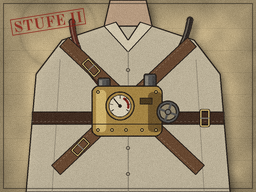
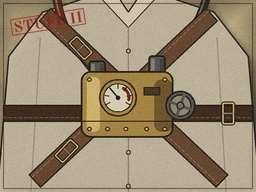
Aktenbilder: Arme in drei Stufen, Schrotflinte größer, Herz näher herangeholt

diff --git a/tools/art/akte_bilder.py b/tools/art/akte_bilder.py
@@ -1,6 +1,6 @@
 """Bilder für Waffenkammer und Ausbauten: lavierte Werkstattzeichnungen auf Karteikarten, wie aus einer Akte von 1927.
 
-Je Gegenstand aus data/waffen.json ein Bild, je Ausbau (Beine, Herz) und Stufe eines. Eigene Entwürfe, gezeichnet aus Flächen und Linien.
+Je Gegenstand aus data/waffen.json ein Bild, je Ausbau (Beine, Arme, Herz) und Stufe eines. Eigene Entwürfe, gezeichnet aus Flächen und Linien.
 Aufruf: python tools/art/akte_bilder.py [--sheet=<Datei.png>]   (wenige Sekunden)
 Ergebnis: game/assets/akte/*.png, 256 × 192 Bildpunkte, gedacht für die Anzeige in halber (128 × 96) und viertel Größe (64 × 48),
 dazu game/assets/akte/zuordnung.json: Kennung -> Datei. Mit --sheet entsteht ein Übersichtsblatt aller Bilder.
@@ -19,7 +19,7 @@ FONTS = ROOT / "game" / "assets" / "fonts"
 W, H = 256, 192
 SUPER = 4
 UPGRADE_LEVELS = 3  # Campaign.MaxLevel
-UPGRADES = {"legs": "beine", "heart": "herz"}  # Kennung im Spiel (AgentRecord.Legs, .Heart) -> Name in der Datei
+UPGRADES = {"legs": "beine", "arms": "arme", "heart": "herz"}  # Kennung im Spiel -> Name in der Datei
 
 PAPER = (200, 184, 148)
 INK = (36, 30, 26)
@@ -231,7 +231,7 @@ def draw_pistole(p, img):
 
 
 def draw_schrotflinte(p, img):
-    p = p.at(-6, 4)
+    p = p.at(-6, 4).at(-13, -9, 0, 1.1)
     p.poly([(176, 66), (200, 70), (228, 94), (242, 128), (233, 139), (213, 134), (196, 108), (176, 99)], WOOD)  # abgesägter Schaft
     p.poly([(186, 74), (200, 76), (222, 96), (214, 100), (198, 84)], WOOD_L, None)
     p.poly([(233, 139), (242, 128), (238, 126), (229, 137)], light(WOOD_L, 0.3), INK, 0.8)  # rohe Sägekante
@@ -530,8 +530,101 @@ def draw_beine(p, img, level):
             p.rivets([(109, 60), (121, 58), (112, 88), (124, 87)], BRASS_L, 1.4)
 
 
+def draw_arme(p, img, level):
+    """Unterarm und Hand von der Seite, Hand nach links. Stufe 1 Lederschiene, Stufe 2 Federzug mit Handgelenk, Stufe 3 Messingarm mit Stütze und Uhrwerk."""
+    skin, skin_l, skin_d = (198, 164, 134), (222, 192, 162), (150, 116, 92)
+    p = p.at(128, 98, -7).at(-128, -100)
+    # Hemdsärmel, aufgekrempelt
+    p.poly([(196, 70), (262, 62), (262, 140), (198, 130)], SHIRT)
+    p.poly([(188, 68), (204, 68), (206, 132), (190, 132)], light(SHIRT, 0.35), INK, 1.1)
+    p.line([(214, 72), (216, 128)], dark(SHIRT, 0.3), 0.9)
+    p.line([(236, 68), (238, 134)], dark(SHIRT, 0.3), 0.9)
+    arm = [(92, 86), (190, 72), (190, 128), (92, 114)]
+    hand = [(92, 86), (70, 84), (50, 88), (30, 92), (24, 98), (30, 104), (52, 104), (56, 110), (36, 112), (32, 118), (40, 122), (66, 120), (92, 114)]
+    thumb = [(84, 86), (72, 70), (62, 64), (56, 68), (62, 76), (68, 88)]
+    if level < 3:
+        p.poly(arm, skin)
+        p.poly([(96, 88), (188, 76), (188, 86), (96, 95)], skin_l, None)
+        p.poly([(96, 106), (188, 118), (188, 126), (96, 112)], skin_d, None)
+        p.poly(arm, None)
+        p.poly(thumb, skin)
+        p.poly(hand, skin)
+        p.poly([(34, 94), (70, 87), (88, 89), (88, 94), (40, 99)], skin_l, None)
+        p.line([(30, 104), (52, 104)], INK, 0.9)
+        p.line([(52, 104), (62, 100)], INK, 0.8)
+    if level == 1:
+        # Lederschiene: Manschette über den halben Unterarm, drei Riemen, oben ein Stahlstab
+        p.poly([(104, 82), (182, 71), (182, 129), (104, 116)], LEATHER)
+        p.poly([(108, 85), (178, 75), (178, 86), (108, 94)], LEATHER_L, None)
+        p.poly([(104, 82), (182, 71), (182, 129), (104, 116)], None)
+        p.dashes([(108, 86), (178, 76), (178, 124), (108, 112), (108, 86)], LEATHER_D, 0.8, 2.4, 2.4)
+        for x in (118, 143, 168):
+            strap(p, (x, 68 + (182 - x) * 0.13), (x, 131 - (182 - x) * 0.15), 9, LEATHER_D, 0.3)
+        p.poly([(98, 78), (186, 66), (186, 72), (98, 84)], STEEL_L, INK, 1.1)
+        p.rivets([(104, 80), (182, 69)], STEEL, 1.8)
+    elif level == 2:
+        # Federzug: kürzere Manschette, darüber eine starke Schraubenfeder vom Ellbogen zum Gelenk am Handgelenk, Zugdraht zu den Fingern
+        p.poly([(124, 79), (184, 71), (184, 129), (124, 119)], LEATHER)
+        p.poly([(128, 82), (180, 75), (180, 86), (128, 92)], LEATHER_L, None)
+        p.poly([(124, 79), (184, 71), (184, 129), (124, 119)], None)
+        for x in (138, 168):
+            strap(p, (x, 68 + (184 - x) * 0.13), (x, 131 - (184 - x) * 0.16), 10, LEATHER_D, 0.3)
+        p.poly([(60, 84), (92, 82), (94, 118), (64, 118)], BRASS, INK, 1.1)  # Handrückenplatte
+        p.poly([(64, 87), (90, 85), (90, 92), (66, 94)], BRASS_L, None)
+        p.rivets([(66, 90), (88, 88), (68, 113), (88, 113)], BRASS_L, 1.4)
+        p.line([(40, 96), (62, 90)], INK, 2.4)  # Zugdraht
+        p.line([(40, 96), (62, 90)], STEEL_L, 1.0)
+        p.bar(174, 50, 190, 74, BRASS_D, 3, upright=True)  # Federbock am Ellbogen
+        a, b = (176, 58), (104, 66)
+        coil = [(a[0] + (b[0] - a[0]) * i / 16, a[1] + (b[1] - a[1]) * i / 16 + (9 if i % 2 else -9) * (0 < i < 16)) for i in range(17)]
+        p.line(coil, INK, 5.0)
+        p.line(coil, STEEL_L, 2.8)
+        p.gear(98, 96, 20, 10, BRASS, 1.3)  # Gelenk am Handgelenk
+        p.oval(98, 96, 5, 5, STEEL_D, INK, 0.9)
+        p.line([(104, 66), (100, 82)], INK, 4.4)
+        p.line([(104, 66), (100, 82)], BRASS, 2.6)
+    else:
+        # Messingarm: genietete Schale, Fingerplatten, oben das Uhrwerk, unten die ausklappbare Stütze
+        strut = [(186, 132), (120, 166), (60, 126)]
+        p.line(strut, INK, 6.4)
+        p.line(strut, STEEL_L, 4.0)
+        p.oval(120, 166, 6, 6, BRASS, INK, 1.1)
+        p.poly([(110, 168), (130, 168), (136, 180), (104, 180)], STEEL_D, INK, 1.1)  # Auflage
+        p.poly(thumb, BRASS_D)
+        p.poly(hand, BRASS)
+        p.poly([(34, 94), (70, 87), (88, 89), (88, 94), (40, 99)], BRASS_L, None)
+        for x in (44, 58, 72):
+            p.line([(x, 89 - (x - 44) * 0.08), (x + 2, 104)], INK, 0.9)
+        p.line([(30, 104), (52, 104)], INK, 0.9)
+        p.oval(60, 126, 4.5, 4.5, STEEL, INK, 0.9)
+        p.poly(arm, BRASS)
+        p.poly([(96, 88), (188, 75), (188, 86), (96, 96)], BRASS_L, None)
+        p.poly([(96, 105), (188, 117), (188, 127), (96, 112)], BRASS_D, None)
+        p.poly(arm, None)
+        for x in (124, 158):
+            p.line([(x, 82 - (x - 92) * 0.14), (x, 114 + (x - 92) * 0.14)], INK, 0.9)
+        p.rivets([(x, 84 - (x - 92) * 0.14 + 5) for x in range(100, 188, 12)] + [(x, 113 + (x - 92) * 0.14 - 5) for x in range(100, 188, 12)], BRASS_L, 1.4)
+        p.oval(92, 100, 15, 17, BRASS_D)  # Handgelenk
+        p.oval(92, 100, 6, 7, STEEL_D, INK, 0.9)
+        p.bar(182, 64, 196, 136, BRASS_D, 3, upright=True)  # Ellbogenmanschette
+        # Uhrwerk: große Dose auf dem Arm mit zwei Zahnrädern und Aufziehschlüssel
+        p.gear(166, 56, 17, 11, BRASS, 1.2)
+        p.box(112, 44, 164, 82, BRASS, r=6)
+        p.box(116, 48, 126, 78, BRASS_L, None, r=3)
+        p.box(152, 50, 164, 78, BRASS_D, None, r=4)
+        p.box(112, 44, 164, 82, None, INK, 1.3, 6)
+        p.oval(138, 63, 15, 15, dark(BRASS_D, 0.45), INK, 1.0)  # Fenster ins Werk
+        p.gear(133, 60, 8, 8, BRASS_L, 0.9)
+        p.gear(145, 68, 6, 7, STEEL_L, 0.9)
+        p.rivets([(117, 49), (159, 49), (117, 77), (159, 77)], BRASS_L, 1.4)
+        p.line([(138, 44), (138, 32)], INK, 3.6)
+        p.line([(138, 44), (138, 32)], STEEL_L, 2.0)
+        p.poly([(138, 32), (126, 26), (124, 18), (134, 20), (138, 26), (142, 20), (152, 18), (150, 26)], STEEL_L, INK, 1.1)  # Flügelschlüssel
+
+
 def draw_herz(p, img, level):
     """Brust von vorn mit Riemengeschirr. Stufe 1 Uhrwerk, Stufe 2 Pumpe mit Druckmesser, Stufe 3 Zwillingspumpe mit Schwungrad."""
+    p = p.at(-38, -40, 0, 1.3)  # nah heran: Der Apparat soll die Karte füllen
     torso = [(26, 192), (36, 74), (62, 40), (104, 26), (152, 26), (194, 40), (220, 74), (230, 192)]
     p.poly(torso, SHIRT, INK, 1.2)
     p.poly([(104, 26), (152, 26), (146, 0), (110, 0)], (196, 164, 136), INK, 1.2)  # Hals
@@ -660,25 +753,25 @@ ITEM_DRAWINGS = {
     "pistole": draw_pistole, "schrotflinte": draw_schrotflinte, "maschinenpistole": draw_maschinenpistole, "totschlaeger": draw_totschlaeger,
     "dietrich": draw_dietrich, "rauchtopf": draw_rauchtopf, "verbandszeug": draw_verbandszeug,
 }
-UPGRADE_DRAWINGS = {"legs": draw_beine, "heart": draw_herz}
+UPGRADE_DRAWINGS = {"legs": draw_beine, "arms": draw_arme, "heart": draw_herz}
 ROMAN = ("I", "II", "III")
 
 
 def sheet(entries, path):
     """Übersichtsblatt: jedes Bild mit Namen in Originalgröße, in halber und in viertel Größe."""
     cols, gap, label = 3, 14, 20
-    cell_w, cell_h = W + 128 + 64 + gap * 3, H + label + gap
+    cell_w, cell_h = W + 128 + 75 + gap * 3, H + label + gap
     rows = (len(entries) + cols - 1) // cols
     board = Image.new("RGB", (cols * cell_w + gap, rows * cell_h + gap + 30), (173, 158, 122))  # Papierfarbe des HUD
     d = ImageDraw.Draw(board)
     f = ImageFont.truetype(str(FONTS / "CourierPrime-Bold.ttf"), 14)
-    d.text((gap, 8), "Akte: Waffenkammer und Ausbauten. Je Bild 256 x 192, daneben 128 x 96 und 64 x 48", font=f, fill=INK)
+    d.text((gap, 8), "Akte: Waffenkammer und Ausbauten. Je Bild 256 x 192, daneben 128 x 96 und 75 x 56", font=f, fill=INK)
     for i, (name, img) in enumerate(entries):
         x, y = gap + (i % cols) * cell_w, 30 + gap + (i // cols) * cell_h
         d.text((x, y), name, font=f, fill=INK)
         board.paste(img, (x, y + label))
         board.paste(img.resize((128, 96), Image.LANCZOS), (x + W + gap, y + label))
-        board.paste(img.resize((64, 48), Image.LANCZOS), (x + W + gap * 2 + 128, y + label))
+        board.paste(img.resize((75, 56), Image.LANCZOS), (x + W + gap * 2 + 128, y + label))
     board.save(path)
 
 

diff --git a/docs/architektur.md b/docs/architektur.md
@@ -95,7 +95,7 @@ Eingabe (Godot) -> Befehle -> World.Tick() -> Zustand -> Darstellung (Godot)
   Requisiten aus `props` (Baum, Grabkreuz, Mast, Brunnen, Kohlenhaufen), Bodenarten aus `streets` (`kies`, `erde`, Lehmhöfe).
   Helferfenster aus `marks` werden Kerzenfenster: in `panes.json` mit `helper`, dazu ein Lichtflicken der Art `kerze`.
 - **Bildlichter:** Kleine Quellen, die nur einen Ort auffindbar machen (Sturmlaterne am Fluchtwagen, Kohlenkorb im Kohlenhof), stehen im Manifest unter `pictureLights` (`x`, `y`, `z`, `kind`). Farbe, Stärke, Reichweite und Glanz auf nassem Pflaster stehen in `PICTURE_LIGHTS` im Lichtbaker. Sie leuchten nur im Bild, das Schleichlicht kennt sie nicht. Ihre Bilder haben die Art `glow`: kein Schatten, kein eigenes Leuchten in den Regeln.
-- **Aktenbilder:** `tools/art/akte_bilder.py` zeichnet je Gegenstand aus `data/waffen.json` und je Ausbau und Stufe (Beine, Herz, Stufe 1 bis 3) eine Karteikarte nach `game/assets/akte/`, 256 × 192, gedacht für 128 × 96 und 64 × 48. `game/assets/akte/zuordnung.json` nennt die Datei je Kennung: `items[<id aus waffen.json>]`, `upgrades[legs|heart][<Stufe>]`. Kommt ein Gegenstand in den Daten dazu, bricht das Werkzeug ab, bis er eine Zeichnung hat.
+- **Aktenbilder:** `tools/art/akte_bilder.py` zeichnet je Gegenstand aus `data/waffen.json` und je Ausbau und Stufe (Beine, Arme, Herz, Stufe 1 bis 3) eine Karteikarte nach `game/assets/akte/`, 256 × 192, gedacht für 128 × 96 und 64 × 48. `game/assets/akte/zuordnung.json` nennt die Datei je Kennung: `items[<id aus waffen.json>]`, `upgrades[legs|arms|heart][<Stufe>]`. Kommt ein Gegenstand in den Daten dazu, bricht das Werkzeug ab, bis er eine Zeichnung hat.
   Laternen anderer Art als die der Karte stehen als `lightKinds` im Manifest (`bogen`: elektrisch, weiß, weit).
   Karten sind quadratisch und beliebig groß: Die Kantenlänge steht als `size` im Manifest, Lichtbake und Kulisse richten sich danach.
   Ab 21 Feldern schrumpft der Rand der Zeichenfläche, damit das feine Bodenbild höchstens 4096 Punkte breit wird (30 Felder: genau 4096).
